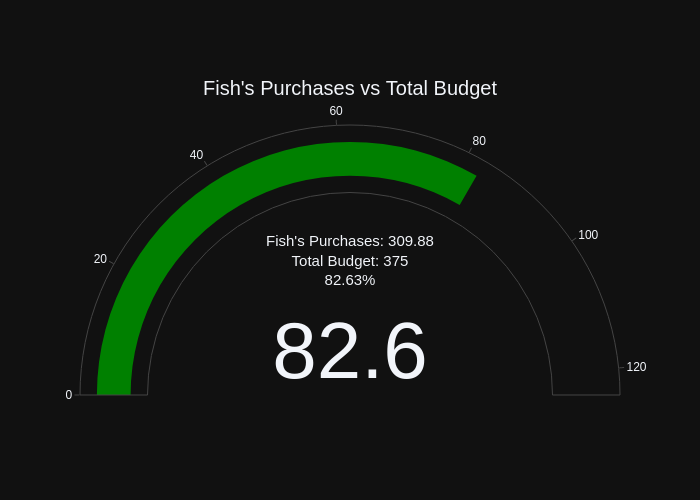
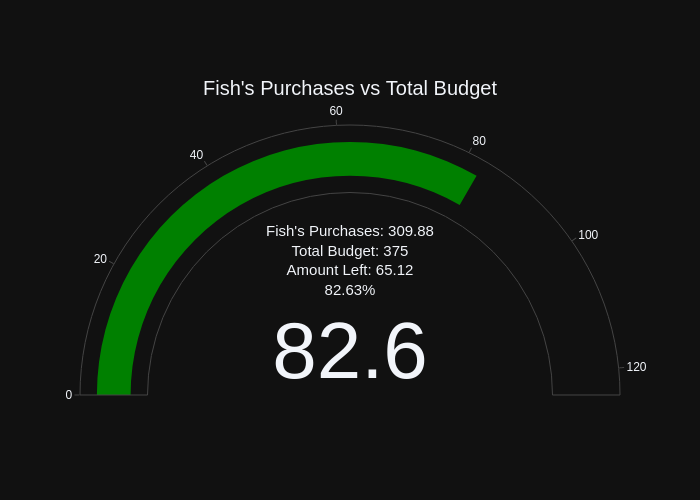
this is test file

Changed region(s): [[0.36, 0.45, 0.63, 0.6]]

diff --git a/app.py b/app.py
@@ -31,6 +31,7 @@ total_budget = 375
 for person, purchases_to_date in my_dict.items():
     # Calculate the percentage of purchases to date compared to the total budget
     percentage_purchases = (purchases_to_date / total_budget) * 100
+    amount_left = total_budget - purchases_to_date
 
     # Create a gauge chart
     fig = go.Figure()
@@ -48,7 +49,7 @@ for person, purchases_to_date in my_dict.items():
             {
                 "x": 0.5,
                 "y": 0.5,
-                "text": f"{person}'s Purchases: {purchases_to_date}<br>Total Budget: {total_budget}<br>{percentage_purchases:.2f}%",
+                "text": f"{person}'s Purchases: {purchases_to_date}<br>Total Budget: {total_budget}<br>Amount Left: {amount_left}<br>{percentage_purchases:.2f}%",
                 "showarrow": False,
                 "font": {'size': 15}  # Adjust the font size here
             }
